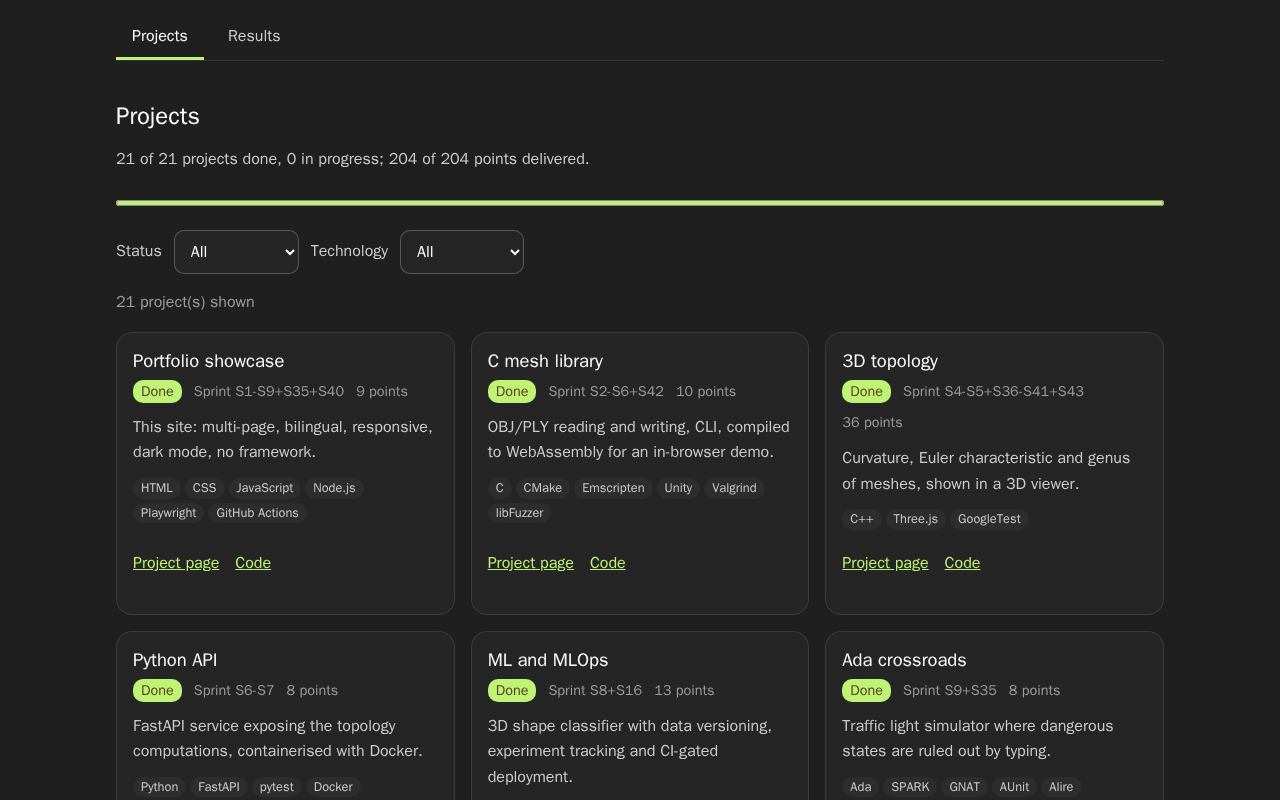
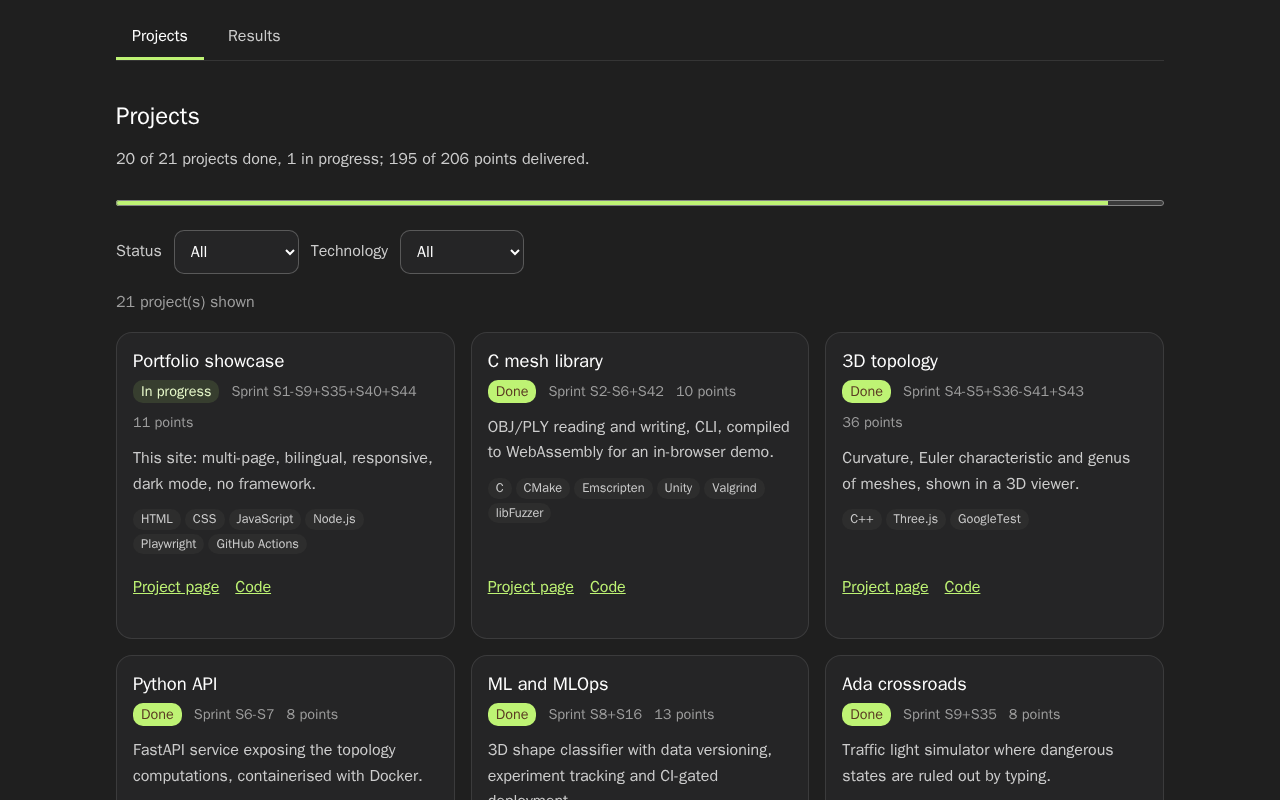
feat(vitrine): each project explained in plain words, for non-developers (sprint 44, D53)
Charles's request: a summary an HR person can read. At the top of every
project page, a box closed by default, "In short, no jargon", that opens
by click, keyboard or touch without JavaScript: what the project is, what
it is for, what it shows of Charles's skills, in French and English. A
unit test refuses a missing, long or jargon-laden summary; Playwright
checks the box in five browsers and both themes. Opens sprint 44 (the
showcase from 9 to 11 points, 206 in all, 44 sprints).

diff --git a/tests/e2e/site.spec.js b/tests/e2e/site.spec.js
@@ -498,6 +498,38 @@ test('the topology viewer shows an orientation gizmo that turns with the camera 
   expect(errors).toEqual([]);
 });
 
+test('each project page explains the project in plain words, in a box that opens and closes (sprint 44)', async ({ page }) => {
+  // Two languages and four axe runs: more than the default 30 s for Firefox when five browsers run at once.
+  test.setTimeout(60000);
+  for (const [lang, title, what] of [['en', 'In short, no jargon', 'What it is'], ['fr', 'En bref, sans jargon', "Ce que c'est"]]) {
+    await page.goto(`/${lang}/project-ada.html`);
+    const box = page.locator('[data-plain]');
+    const summary = box.locator('summary');
+    const first = box.locator('dt').first();
+    await expect(summary).toContainText(title);
+    // Closed at first: the three sentences are hidden.
+    await expect(first).toBeHidden();
+    await summary.click();
+    await expect(first).toBeVisible();
+    await expect(first).toHaveText(what);
+    await expect(box.locator('dd')).toHaveCount(3);
+    // With the keyboard too.
+    await summary.focus();
+    await page.keyboard.press('Enter');
+    await expect(first).toBeHidden();
+    await page.keyboard.press('Space');
+    await expect(first).toBeVisible();
+    expect(await summary.evaluate((el) => el.getBoundingClientRect().height)).toBeGreaterThanOrEqual(44);
+    const overflow = await page.evaluate(() => document.documentElement.scrollWidth - window.innerWidth);
+    expect(overflow).toBeLessThanOrEqual(1);
+    for (const theme of ['light', 'dark']) {
+      await page.evaluate((th) => document.documentElement.setAttribute('data-theme', th), theme);
+      const a11y = await new AxeBuilder({ page }).include('[data-plain]').withTags(['wcag2a', 'wcag2aa']).analyze();
+      expect(a11y.violations.map((v) => `${theme} ${v.id}: ${v.nodes.length}`)).toEqual([]);
+    }
+  }
+});
+
 test('the topology viewer draws the Reeb graph, with as many loops as the genus (sprint 38)', async ({ page }) => {
   const errors = [];
   page.on('pageerror', (e) => errors.push(e.message));

diff --git a/src/assets/style.css b/src/assets/style.css
@@ -639,3 +639,12 @@ tr.is-picked { background: var(--surface-2); }
 .reeb-node.is-min { fill: var(--crit-min); }
 .reeb-node.is-saddle, .reeb-node.is-other { fill: var(--crit-saddle); }
 .reeb-node.is-max { fill: var(--crit-max); }
+
+/* In plain words (D53): a box at the top of each project page, closed by default; the summary row is a 44 px target. */
+.plain { margin: var(--space-4) 0; border: 1px solid var(--border-strong); border-left: 4px solid var(--accent); border-radius: var(--radius); background: var(--surface); }
+.plain summary { cursor: pointer; min-height: 44px; display: flex; flex-wrap: wrap; align-items: center; gap: var(--space-2); padding: var(--space-2) var(--space-4); }
+.plain .plain-title { font-weight: 600; color: var(--text-strong); }
+.plain .plain-hint { color: var(--muted); font-size: 0.9rem; }
+.plain dl { margin: 0; padding: 0 var(--space-4) var(--space-4); display: grid; gap: var(--space-3); }
+.plain dt { font-weight: 600; color: var(--text-strong); }
+.plain dd { margin: var(--space-1) 0 0; max-width: 70ch; }

diff --git a/REVIEW.md b/REVIEW.md
@@ -11,6 +11,9 @@ Claude y ajoute aussi ses constats au fil de l'eau, préfixés « (Claude) » ; 
 
 > Cases cochées par Claude le 6 octobre 2026, à la demande explicite de Charles (« valide les relectures »).
 
+## Sprint 44 : à relire
+- [ ] Les 21 résumés « En bref, sans jargon » (`data/projects.json`, champ `plain`) : justes, à ton goût, et ce qu'ils disent de toi (« Charles a enseigné à l'université », « le cœur du métier de Charles ») te convient-il ? L'encart en haut des fiches (fermé par défaut) te paraît-il le bon choix ?
+
 ## Constats
 
 | Date | Fichier | Problème trouvé | Correction |
@@ -58,4 +61,5 @@ Claude y ajoute aussi ses constats au fil de l'eau, préfixés « (Claude) » ; 
 | 2026-10-08 | `src/lib.mjs` (`burndown`), `data/scrum.json` (`scopeSteps`) | (Claude) Réalisé (D49, sprint 40) : le reste se compte en points de stories, une story comptant au sprint dont le fichier la contient ; les ajouts D46-D47, D48 et D49 sont des marches après les sprints 34, 36 et 38, le passé ne bouge plus. Le backlog dit maintenant « 0 point de stories restant sur 203 » (1 avant cette story) au lieu de « 45 sur 196 » | Testé sur un exemple (marche, passé inchangé, reste = stories ouvertes) et sur les vraies données |
 | 2026-10-08 | page Gestion de projet | (Claude) Vu sur capture : les étiquettes « +9 (D46, D47) » des marches se chevauchaient, deux sprints seulement les séparent | Un repère par marche (info-bulle) et une ligne de légende chacune |
 | 2026-10-08 | `src/lib.mjs` (`progress`), `data/projects.json`, accueil | Signalé par Charles : l'accueil affichait « Projet en cours : Vitrine du portfolio, 4 points sur 9 » alors que tout était livré | (Claude) La vitrine, rouverte par les stories du sprint 40 (D49), n'avait jamais été repassée à « terminé » ; « en continu, par principe » était une formule de Claude, jamais une décision de Charles. Le calcul comptait les seules stories qui nomment le projet (4 points) contre toute son estimation (9) : il compare maintenant les stories du projet entre elles et ne montre un projet que s'il en reste d'ouvertes. Vitrine terminée (21 sur 21) ; le bandeau temporaire quitte l'accueil quand tout est terminé et qu'aucun sprint n'est en cours, comme prévu par D14 ; tests unitaires mis à jour |
+| 2026-10-08 | `tests/e2e/site.spec.js` | (Claude) Le test de l'encart sans jargon a dépassé une fois les 30 s sous Firefox, cinq navigateurs en parallèle (deux langues, quatre passages d'axe) ; non reproduit en 27 passages | Délai de 60 s, comme les autres tests lourds |
 | | | | |

diff --git a/scrum/sprint-44.md b/scrum/sprint-44.md
@@ -1,0 +1,16 @@
+# Sprint 44 : chaque projet expliqué sans jargon
+
+**Objectif :** demande de Charles (D53) : sur chaque fiche, un résumé pour une personne qui n'est pas informaticienne (une RH, par exemple) : ce qu'est le projet, à quoi il sert, ce qu'il montre des compétences de Charles, en trois phrases courtes, dans un encart dépliable en haut de la fiche.
+
+**Goal:** Charles's request (D53): on each project page, a summary for someone who is not a developer (an HR person, for instance): what the project is, what it is for, what it shows of Charles's skills, in three short sentences, in a collapsible box at the top of the page.
+
+| Story | Points | État |
+|---|---|---|
+| En tant que recruteuse ou recruteur non informaticien, je comprends chaque projet en trente secondes (vitrine) : encart « En bref, sans jargon » en haut de chaque fiche, fermé par défaut, qui s'ouvre au clic, au clavier ou au doigt, sans JavaScript ; trois phrases (ce que c'est, à quoi ça sert, ce que ça montre) pour les 21 projets, en français et en anglais ; un test qui exige chaque résumé dans les deux langues, court, et sans mots techniques ; Playwright (ouverture, clavier, mobile, accessibilité). | 2 | Fait |
+
+**Tests :** 2 tests Node (`tests/unit/plain.test.mjs` : les trois phrases de chaque projet dans les deux langues, de 30 à 260 caractères, sans une liste de 32 mots techniques, vérifiée sur « API » et « rapide » ; l'encart en haut de chaque fiche, fermé, avant les liens) ; 1 test Playwright (5 navigateurs : ouverture au clic, au clavier par Entrée et Espace, cible de 44 px, pas de défilement horizontal, axe dans les deux thèmes, en français et en anglais). **Fait :** l'encart « En bref, sans jargon » en haut des 21 fiches, et les 42 résumés. **Trouvé en route :** le bloc inséré d'abord dans la carte de la liste des projets (même ligne repère que la fiche) ; un test Firefox hors délai une fois sur trois passages, cinq navigateurs en parallèle (60 s comme les autres tests lourds).
+
+## Rétro (Charles)
+- Ce qui a marché :
+- Ce que l'IA a mal fait :
+- À changer au prochain sprint :

diff --git a/DECISIONS.md b/DECISIONS.md
@@ -270,3 +270,9 @@ Le burndown comptait par projet entier, brûlé à son dernier sprint : réouvri
 **Alternatives :** un `AxesHelper` au centre du maillage (caché par lui, et à l'échelle du maillage) ; un repère en HTML par-dessus le canvas (une projection à recalculer à chaque image, en double de three.js).
 **Limites :** sans WebGL (Firefox en CI), pas de repère, comme pas de maillage.
 
+## D53. Chaque projet expliqué sans jargon
+**Choix (demande de Charles, 8 octobre 2026) :** sprint 44, 2 points (206 en tout, 44 sprints) ; la vitrine passe de 9 à 11. En haut de chaque fiche, sous le titre, un encart `<details>` « En bref, sans jargon », fermé par défaut : trois phrases (ce que c'est, à quoi ça sert, ce que ça montre des compétences de Charles), rangées dans `data/projects.json` (champ `plain`), en français et en anglais.
+**Pourquoi :** une personne des ressources humaines lit d'abord la fiche ; le résumé technique (`pitch`) parle aux informaticiens. `<details>` s'ouvre au clic, au clavier et au doigt sans JavaScript, se lit par les lecteurs d'écran et ne cache rien sur mobile.
+**Alternatives :** une fenêtre modale (bouton et `<dialog>`) : plus voyante, mais il faut du JavaScript, gérer le focus et la fermeture sur téléphone, pour le même contenu ; un encart toujours ouvert : il repousse la démonstration pour les visiteurs techniques.
+**Limites :** un test refuse une liste de mots techniques dans les résumés ; il ne garantit pas qu'un texte soit clair, seulement qu'il évite le jargon le plus courant.
+
